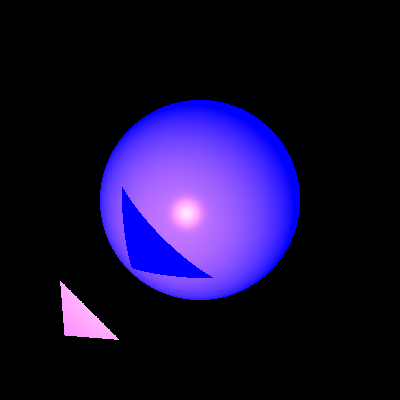
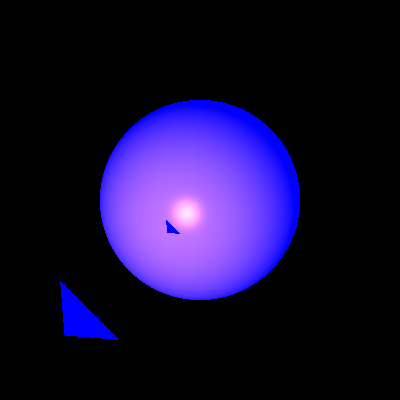
.

Changed region(s): [[0.3, 0.48, 0.54, 0.72], [0.15, 0.69, 0.3, 0.87]]

diff --git a/src/renderer/SimpleRayTracer.java b/src/renderer/SimpleRayTracer.java
@@ -31,14 +31,6 @@ public class SimpleRayTracer extends RayTracerBase {
      */
     private static final Double3 INITIAL_K = Double3.ONE;
 
-    private boolean softShadow = false;
-    private int numOfRaysAtBeam = 1;
-    private int radiusOfTargetArea = 0;
-
-    public SimpleRayTracer setSoftShadow(boolean softShadow) {
-        this.softShadow = softShadow;
-        return this;
-    }
 
 
 
@@ -108,7 +100,7 @@ public class SimpleRayTracer extends RayTracerBase {
             // check if sign(nl) == sign(nv)
             if (nl * nv > 0){
 
-                if(softShadow)
+                if(scene.isSoftShadow())
                 {
                    ktr =  softShadow(gp,lightSource,n);
                 }
@@ -233,33 +225,6 @@ public class SimpleRayTracer extends RayTracerBase {
         return  sumTrascprency.reduce(lst.size());
 
     }
-
-
-//   //double pointLightD = light.getDistance(gp.point); //not revers?
-//    private boolean unshaded(GeoPoint gp, Vector l, Vector n, double nl, LightSource light) {
-//        Vector lightDirection = l.scale(-1); // from point to light source
-//        Vector epsVector = n.scale(nl < 0 ? DELTA : -DELTA);
-//        Point point = gp.point.add(epsVector);
-//        Ray lightRay = new Ray(point, lightDirection);
-//        List<GeoPoint> intersections = scene.geometries.findGeoIntersections(lightRay);
-//        if (intersections == null)
-//            return true;
-//        double pointLightD = light.getDistance(gp.point); //todo: not revers?
-//        for(GeoPoint intresectGP: intersections)
-//        {
-//            if (gp.point.distance(intresectGP.point) < pointLightD)
-//                return false;
-//        }
-//        return true;
-//    }
-//
-//    private boolean unshaded(GeoPoint gp, Vector l, Vector n) {
-//        Vector lightDirection = l.scale(-1d); // from point to light source
-//        Ray lightRay = new Ray(gp.point, lightDirection, n);
-//        List<GeoPoint> intersections = scene.geometries.findGeoIntersections(lightRay);
-//        return intersections == null;
-//    }
-
 
 }
 

diff --git a/unitTests/renderer/ShadowTests.java b/unitTests/renderer/ShadowTests.java
@@ -106,11 +106,38 @@ public class ShadowTests {
         scene.lights.add(
                 new SpotLight(new Color(700, 400, 400), new Point(40, 40, 115), new Vector(-1, -1, -4)) //
                         .setKl(4E-4).setKq(2E-5));
+        scene.setSoftShadow(true);
 
-        camera.setImageWriter(new ImageWriter("shadowTrianglesSphere", 600, 600))
+        camera.setImageWriter(new ImageWriter("shadowTrianglesSphere - Soft", 600, 600))
                 .build()
                 .renderImage()
                 .writeToImage();
     }
+
+
+
+@Test
+public void trianglesSphereOriginal() {
+    scene.geometries.add(
+            new Triangle(new Point(-150, -150, -115), new Point(150, -150, -135),
+                    new Point(75, 75, -150)) //
+                    .setMaterial(new Material().setKs(0.8).setShininess(60)), //
+            new Triangle(new Point(-150, -150, -115), new Point(-70, 70, -140), new Point(75, 75, -150)) //
+                    .setMaterial(new Material().setKs(0.8).setShininess(60)), //
+            new Sphere(30d,new Point(0, 0, -11)) //
+                    .setEmission(new Color(BLUE)) //
+                    .setMaterial(new Material().setKd(0.5).setKs(0.5).setShininess(30)) //
+    );
+    scene.setAmbientLight(new AmbientLight(new Color(WHITE), 0.15));
+    scene.lights.add(
+            new SpotLight(new Color(700, 400, 400), new Point(40, 40, 115), new Vector(-1, -1, -4)) //
+                    .setKl(4E-4).setKq(2E-5));
+
+
+    camera.setImageWriter(new ImageWriter("shadowTrianglesSphere - Original", 600, 600))
+            .build()
+            .renderImage()
+            .writeToImage();
+}
 
 }

diff --git a/src/scene/Scene.java b/src/scene/Scene.java
@@ -4,6 +4,7 @@ import geometries.Geometries;
 import lighting.AmbientLight;
 import lighting.LightSource;
 import primitives.Color;
+import renderer.SimpleRayTracer;
 
 import java.util.LinkedList;
 import java.util.List;
@@ -14,6 +15,11 @@ public class Scene {
     public AmbientLight ambientLight = AmbientLight.NONE;
     public Geometries geometries = new Geometries() ;
     public List<LightSource> lights = new LinkedList<>();
+
+    private boolean softShadow = false;
+    private int numOfRaysAtBeam = 1;
+    private int radiusOfTargetArea = 0;
+
 
 
     //constractors
@@ -45,5 +51,24 @@ public class Scene {
     public Scene setLights(List<LightSource> lights) {
         this.lights = lights;
         return this;
+    }
+
+    public Scene setSoftShadow(boolean softShadow) {
+        this.softShadow = softShadow;
+        return this;
+    }
+
+    public Scene setNumOfRaysAtBeam(int numOfRaysAtBeam) {
+        this.numOfRaysAtBeam = numOfRaysAtBeam;
+        return this;
+    }
+
+    public Scene setRadiusOfTargetArea(int radiusOfTargetArea) {
+        this.radiusOfTargetArea = radiusOfTargetArea;
+        return this;
+    }
+
+    public boolean isSoftShadow() {
+        return softShadow;
     }
 }

diff --git a/src/lighting/PointLight.java b/src/lighting/PointLight.java
@@ -89,6 +89,7 @@ public class PointLight extends Light implements LightSource{
                 }
 
             }
+
         }
         vectors.add(getL(p));
         return vectors;
